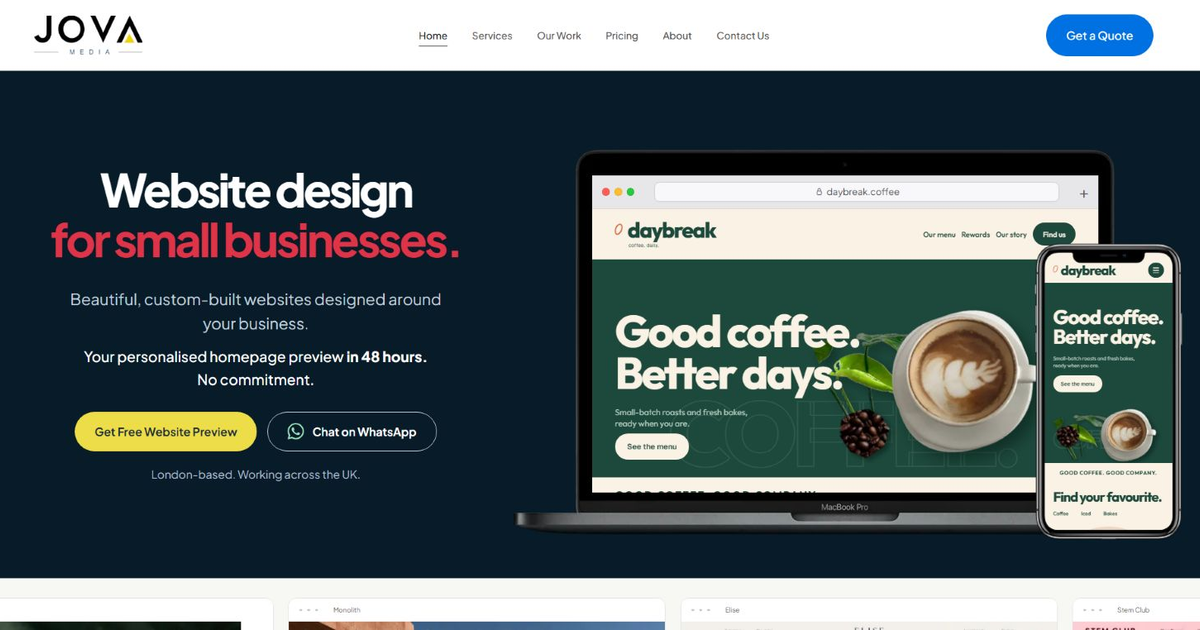
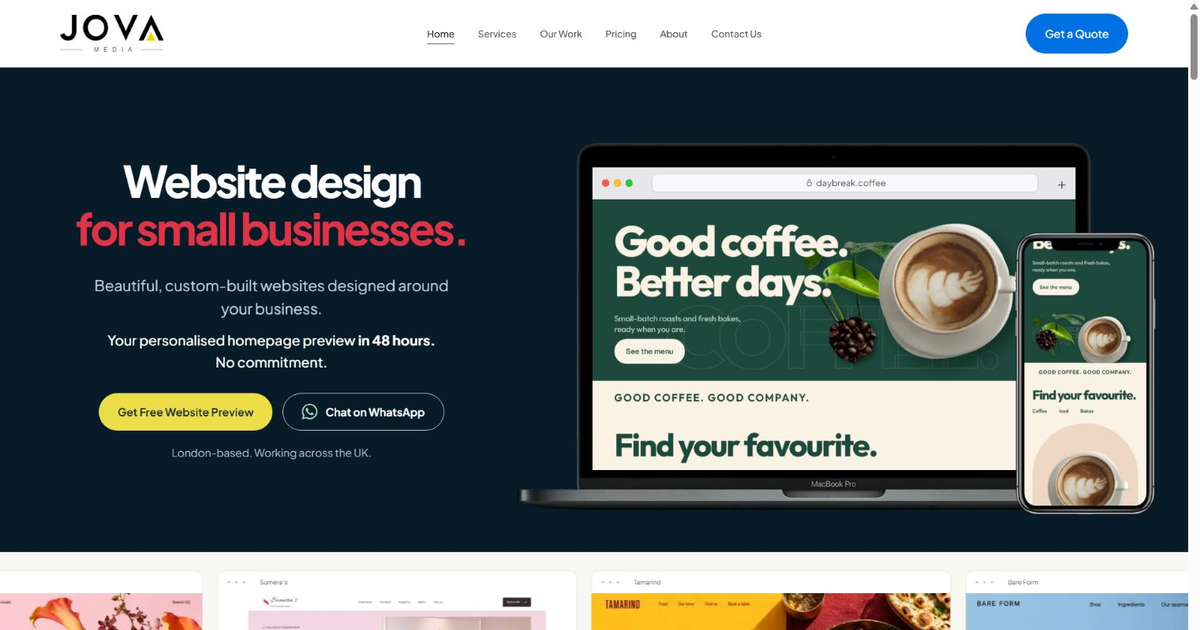
Improve concept-study discovery and hero rendering performance (#67)
* Match contact hero regression to its breadcrumb layout

* Connect concept studies and reduce hero rendering work

* Prioritize hero rendering before optional motion and gallery downloads

* Refresh sharing image for final hero performance changes

diff --git a/components/DaybreakHero.js b/components/DaybreakHero.js
@@ -10,12 +10,14 @@ function CoffeeSite(){return (<article className="siteCopy coffeeSite">
 <div className="coffeeNav"><strong><i aria-hidden="true"></i>daybreak<span>coffee, daily.</span></strong><span>Our menu &nbsp;&nbsp; Rewards &nbsp;&nbsp; Our story &nbsp;&nbsp; <b>Find us</b></span><i className="coffeeMobileMenu">☰</i></div>
 <div className="coffeeHero"><span className="coffeeOutline">COFFEE.</span><h2>Good coffee.<br/>Better days.</h2><p>Small-batch roasts and fresh bakes,<br/>ready when you are.</p><span className="coffeeButton">See the menu</span><div className="leafLayer"><Image src="/hero-daybreak/leaves.webp" alt="" width={1000} height={783} sizes="(max-width:800px) 18vw, 12vw" loading="eager"/></div><div className="productLayer"><Image src="/hero-daybreak/coffee-cup.webp" alt="" width={1141} height={1141} sizes="(max-width:800px) 28vw, 17vw" loading="eager"/></div><div className="beanLayer"><Image src="/hero-daybreak/beans.webp" alt="" width={230} height={230} sizes="(max-width:800px) 8vw, 5vw" loading="eager"/></div></div>
 <div className="coffeeRibbon"><span>GOOD COFFEE. GOOD COMPANY.</span></div>
-<div className="coffeeMenu"><div className="menuIntro"><h3>Find your favourite.</h3><span>Coffee &nbsp; Iced &nbsp; Bakes</span></div><div className="menuProducts"><div className="menuProduct"><div className="productPhoto cupPhoto"><Image src="/hero-daybreak/coffee-cup.webp" alt="" width={1141} height={1141} sizes="(max-width:800px) 28vw, 17vw" loading="eager"/></div><strong>Proper flat white <span>+</span></strong><small>Velvety milk. A little morning magic.</small></div><div className="menuProduct"><div className="productPhoto icedPhoto"><Image src="/hero-daybreak/coffee-glass.webp" alt="" width={700} height={1050} sizes="(max-width:800px) 46vw, 28vw" loading="eager"/></div><strong>Iced & easy <span>+</span></strong><small>Cool, creamy, everyday goodness.</small></div><div className="menuProduct"><div className="productPhoto"><Image src="/hero-daybreak/croissant.webp" alt="" width={600} height={900} sizes="(max-width:800px) 24vw, 14vw" loading="eager"/></div><strong>Golden mornings <span>+</span></strong><small>Fresh from the oven, every morning.</small></div></div></div>
+<div className="coffeeMenu"><div className="menuIntro"><h3>Find your favourite.</h3><span>Coffee &nbsp; Iced &nbsp; Bakes</span></div><div className="menuProducts"><div className="menuProduct"><div className="productPhoto cupPhoto"><Image src="/hero-daybreak/coffee-cup.webp" alt="" width={1141} height={1141} sizes="(max-width:800px) 28vw, 17vw" loading="eager"/></div><strong>Proper flat white <span>+</span></strong><small>Velvety milk. A little morning magic.</small></div><div className="menuProduct"><div className="productPhoto icedPhoto"><Image src="/hero-daybreak/coffee-glass.webp" alt="" width={700} height={1050} sizes="(max-width:800px) 46vw, 28vw" loading="lazy"/></div><strong>Iced & easy <span>+</span></strong><small>Cool, creamy, everyday goodness.</small></div><div className="menuProduct"><div className="productPhoto"><Image src="/hero-daybreak/croissant.webp" alt="" width={600} height={900} sizes="(max-width:800px) 24vw, 14vw" loading="lazy"/></div><strong>Golden mornings <span>+</span></strong><small>Fresh from the oven, every morning.</small></div></div></div>
 <div className="coffeeClub"><span>Your daily ritual, rewarded.</span><h3>Good coffee.<br/>Great company.</h3><p>A little thank you for making us part of your day.</p><span className="coffeeButton">Join the Daybreak Club</span><div className="clubCard"><strong>daybreak<span>club</span></strong><div className="clubStamps"><i></i><i></i><i></i><i></i><i></i><i></i></div><small>Your next good day is on us.</small></div></div><div className="coffeeFooter"><span>See you in the morning.</span><strong>daybreak</strong><span>Our menu &nbsp;&nbsp; Our story &nbsp;&nbsp; Find us</span></div></article>);}
 
 export default function DaybreakHero(){
  const root=useRef(null);
  useEffect(()=>{
+  let cancelled=false,idle=0,cleanup;
+  const start=()=>{
   const el=root.current,showcase=el.querySelector('.showcase'),tracks=[...el.querySelectorAll('.scrollTrack')],media=matchMedia('(prefers-reduced-motion: reduce)');
   let disposed=false,visible=false,frame=0,geometry=[];
   // Geometry changes only after layout, asset loading or resize, never per frame.
@@ -24,15 +26,25 @@ export default function DaybreakHero(){
     groups.forEach(({copies})=>copies.forEach(copy=>{copy.style.height='auto';}));
     const heights=groups.map(({copies})=>Math.ceil(copies[0].getBoundingClientRect().height));
     groups.forEach(({track,copies},index)=>{copies.forEach(copy=>{copy.style.height=heights[index]+'px';});track.style.setProperty('--loop-end',-heights[index]+'px');});
-    geometry=groups.map(({track,copies},index)=>({track,distance:heights[index],copies:copies.map(copy=>{const hero=copy.querySelector('.coffeeHero');return {hero,height:hero.offsetHeight,top:copy.offsetTop+hero.offsetTop};})}));
+    geometry=groups.map(({track,copies},index)=>({track,distance:heights[index],copies:copies.map(copy=>{const hero=copy.querySelector('.coffeeHero');return {hero,height:hero.offsetHeight,top:copy.offsetTop+hero.offsetTop,product:hero.querySelector('.productLayer'),outline:hero.querySelector('.coffeeOutline'),leaves:hero.querySelector('.leafLayer'),beans:hero.querySelector('.beanLayer')};})}));
   };
-  const paint=()=>{frame=0;for(const {track,distance,copies} of geometry){const animation=track.getAnimations()[0],time=animation&&Number(animation.currentTime)||0,phase=(time%20000)/20000,progress=Math.max(0,Math.min(1,(phase-.1)/.8));for(const {hero,height,top} of copies){const scroll=media.matches?0:Math.max(0,Math.min(height,distance*progress-top));hero.style.setProperty('--product-y',scroll*.12+'px');hero.style.setProperty('--product-angle',scroll*.012+'deg');hero.style.setProperty('--outline-y',-scroll*.1+'px');hero.style.setProperty('--leaf-y',-scroll*.08+'px');hero.style.setProperty('--bean-y',scroll*.06+'px');}}if(!disposed&&visible&&!document.hidden&&!media.matches)frame=requestAnimationFrame(paint);};
+  const paint=()=>{frame=0;for(const {track,distance,copies} of geometry){const animation=track.getAnimations()[0],time=animation&&Number(animation.currentTime)||0,phase=(time%20000)/20000,progress=Math.max(0,Math.min(1,(phase-.1)/.8));for(const copy of copies){const {height,top,product,outline,leaves,beans}=copy;const scroll=media.matches?0:Math.max(0,Math.min(height,distance*progress-top));if(copy.lastScroll===scroll)continue;copy.lastScroll=scroll;product.style.transform=`translateY(${scroll*.12}px) rotate(${-18+scroll*.012}deg)`;outline.style.transform=`translateY(${-scroll*.1}px)`;leaves.style.transform=`translateY(${-scroll*.08}px) rotate(-22deg)`;beans.style.transform=`translateY(${scroll*.06}px) rotate(-24deg)`;}}if(!disposed&&visible&&!document.hidden&&!media.matches)frame=requestAnimationFrame(paint);};
   const sync=()=>{showcase.classList.toggle('paused',!visible||document.hidden||media.matches);cancelAnimationFrame(frame);paint();};
   const resize=new ResizeObserver(measure);tracks.forEach(track=>resize.observe(track.parentElement));
   const intersection=new IntersectionObserver(entries=>{visible=entries[0].isIntersecting;sync();});intersection.observe(el);
   document.addEventListener('visibilitychange',sync);media.addEventListener('change',sync);
-  Promise.all([document.fonts.ready,...[...el.querySelectorAll('img')].map(img=>img.decode().catch(()=>{}))]).then(()=>{if(disposed)return;measure();showcase.classList.add('ready');sync();});
+  Promise.all([document.fonts.ready,...[...el.querySelectorAll('.deviceFrame, .coffeeHero img')].map(img=>img.decode().catch(()=>{}))]).then(()=>{if(disposed)return;measure();showcase.classList.add('ready');sync();});
   return()=>{disposed=true;cancelAnimationFrame(frame);resize.disconnect();intersection.disconnect();document.removeEventListener('visibilitychange',sync);media.removeEventListener('change',sync);};
+  };
+  // The server-rendered preview is visible immediately. Start its optional
+  // animation work after the initial load instead of competing with first paint.
+  const schedule=()=>{
+    if('requestIdleCallback' in window) idle=requestIdleCallback(()=>{if(!cancelled)cleanup=start();},{timeout:2000});
+    else idle=setTimeout(()=>{if(!cancelled)cleanup=start();},0);
+  };
+  if(document.readyState==='complete')schedule();
+  else window.addEventListener('load',schedule,{once:true});
+  return()=>{cancelled=true;window.removeEventListener('load',schedule);if('cancelIdleCallback' in window)cancelIdleCallback(idle);else clearTimeout(idle);cleanup?.();};
  },[]);
- return <section ref={root} className={styles.root} aria-labelledby="home-title"><div className="shell"><div className="hero"><div className="message"><h1 id="home-title">Website design<br/><span>for small businesses.</span></h1><p className="description">Beautiful, custom-built websites designed around your business.</p><p className="previewPromise">Your personalised homepage preview <strong>in 48 hours.</strong> No commitment.</p><div className="actions"><ConsultationLink className="primary" placement="hero">free website preview</ConsultationLink><a className="secondary whatsappAction" href={whatsappLink("hero")} target="_blank" rel="noopener noreferrer" data-contact-placement="hero"><WhatsAppIcon />Chat on WhatsApp</a></div><p className="coverage">London-based. Working across the UK.</p></div><div className="previewWrap"><div className="showcase" role="img" aria-label="Daybreak coffee website design concept shown on desktop and phone screens"><div className="backdrop" aria-hidden="true"></div><div className="browser device" aria-hidden="true"><Image className="deviceFrame" src="/device-frames/macbook-pro.webp" alt="" width={1208} height={700} sizes="(max-width:800px) 90vw, 58vw" loading="eager"/><div className="deviceScreen"><div className="browserBar"><span className="dots"><i></i><i></i><i></i></span><span className="address"><svg viewBox="0 0 16 16" fill="none"><rect x="4.5" y="7" width="7" height="6" rx="1.3" stroke="currentColor"/><path d="M6 7V5a2 2 0 0 1 4 0v2" stroke="currentColor"/></svg>daybreak.coffee</span><span className="browserPlus">+</span></div><div className="screen"><div className="scrollTrack" data-screen="desktop">{[0,1].map(copy => <CoffeeSite key={copy}/>)}</div></div></div></div><div className="phone device" aria-hidden="true"><Image className="deviceFrame" src="/device-frames/iphone-x.webp" alt="" width={726} height={1444} sizes="(max-width:800px) 22vw, 14vw" loading="eager"/><div className="screen"><div className="scrollTrack" data-screen="phone">{[0,1].map(copy => <CoffeeSite key={copy}/>)}</div></div></div></div></div></div></div></section>;
+ return <section ref={root} className={styles.root} aria-labelledby="home-title"><div className="shell"><div className="hero"><div className="message"><h1 id="home-title">Website design<br/><span>for small businesses.</span></h1><p className="description">Beautiful, custom-built websites designed around your business.</p><p className="previewPromise">Your personalised homepage preview <strong>in 48 hours.</strong> No commitment.</p><div className="actions"><ConsultationLink className="primary" placement="hero">free website preview</ConsultationLink><a className="secondary whatsappAction" href={whatsappLink("hero")} target="_blank" rel="noopener noreferrer" data-contact-placement="hero"><WhatsAppIcon />Chat on WhatsApp</a></div><p className="coverage">London-based. Working across the UK.</p></div><div className="previewWrap"><div className="showcase" role="img" aria-label="Daybreak coffee website design concept shown on desktop and phone screens"><div className="backdrop" aria-hidden="true"></div><div className="browser device" aria-hidden="true"><Image className="deviceFrame" src="/device-frames/macbook-pro.webp" alt="" width={1208} height={700} sizes="(max-width:800px) 90vw, 58vw" loading="eager" fetchPriority="high"/><div className="deviceScreen"><div className="browserBar"><span className="dots"><i></i><i></i><i></i></span><span className="address"><svg viewBox="0 0 16 16" fill="none"><rect x="4.5" y="7" width="7" height="6" rx="1.3" stroke="currentColor"/><path d="M6 7V5a2 2 0 0 1 4 0v2" stroke="currentColor"/></svg>daybreak.coffee</span><span className="browserPlus">+</span></div><div className="screen"><div className="scrollTrack" data-screen="desktop">{[0,1].map(copy => <CoffeeSite key={copy}/>)}</div></div></div></div><div className="phone device" aria-hidden="true"><Image className="deviceFrame" src="/device-frames/iphone-x.webp" alt="" width={726} height={1444} sizes="(max-width:800px) 22vw, 14vw" loading="eager"/><div className="screen"><div className="scrollTrack" data-screen="phone">{[0,1].map(copy => <CoffeeSite key={copy}/>)}</div></div></div></div></div></div></div></section>;
 }

diff --git a/components/StudioHome.js b/components/StudioHome.js
@@ -110,7 +110,7 @@ export default function StudioHome() {
         {rows.map((row, index) => <div key={index} className={s.galleryWindow} data-direction={index % 2 ? "right" : "left"}>
           <div className={s.pan}><div className={s.track}>{[...row, ...row].map(([image, name], item) => <figure key={`${image}-${item}`} className={s.preview} aria-hidden={item >= row.length ? "true" : undefined}>
             <div className={s.browserBar}><span aria-hidden="true">● ● ●</span><span>{name}</span></div>
-            <Image src={`/studio-2026/${image}.webp`} alt={item >= row.length ? "" : `${name} website preview`} width={1672} height={941} sizes="(max-width: 600px) 70vw, 30vw" draggable={false} />
+            <Image src={`/studio-2026/${image}.webp`} alt={item >= row.length ? "" : `${name} website preview`} width={1672} height={941} sizes="(max-width: 600px) 70vw, 30vw" draggable={false} fetchPriority="low" />
           </figure>)}</div></div>
         </div>)}
       </section>

diff --git a/app/work/page.js b/app/work/page.js
@@ -17,5 +17,7 @@ export default function Page(){return <main>
       </Link>
     </div>
   </div></PhotoHero>
-  <SelectedConcepts/><section className="band band-gold"><div className="shell"><h2>Your business.<br/><em>A fresh perspective.</em></h2><Link className="btn" href="/contact">Contact Us</Link></div></section>
+  <SelectedConcepts/>
+  <section className="section"><div className="shell"><h2>Inside the design process.</h2><p>Our self-initiated concept studies show how a brief becomes a working design. Explore a <Link className="text-link" href="/work/brand-direction">fictional drinks campaign and brand direction</Link>, or follow the wireframes and prototype for an <Link className="text-link" href="/work/editorial-experience">editorial website concept</Link>.</p></div></section>
+  <section className="band band-gold"><div className="shell"><h2>Your business.<br/><em>A fresh perspective.</em></h2><Link className="btn" href="/contact">Contact Us</Link></div></section>
 </main>}

diff --git a/components/PhotoHero.js b/components/PhotoHero.js
@@ -6,7 +6,7 @@ import PhotoHeroMotion from "./PhotoHeroMotion";
 export default function PhotoHero({ image, src, className = "", children }) {
   return <section className={`${className} ${s.hero}`} data-photo-hero>
     <div className={s.backdrop} data-hero-backdrop aria-hidden="true">
-      <Image src={src || `/hero-backgrounds/${image}.webp`} alt="" fill sizes="100vw" preload />
+      <Image src={src || `/hero-backgrounds/${image}.webp`} alt="" fill sizes="100vw" loading="eager" fetchPriority="high" />
     </div>
     <div className={s.overlay} data-hero-overlay aria-hidden="true" />
     <PhotoHeroMotion />
